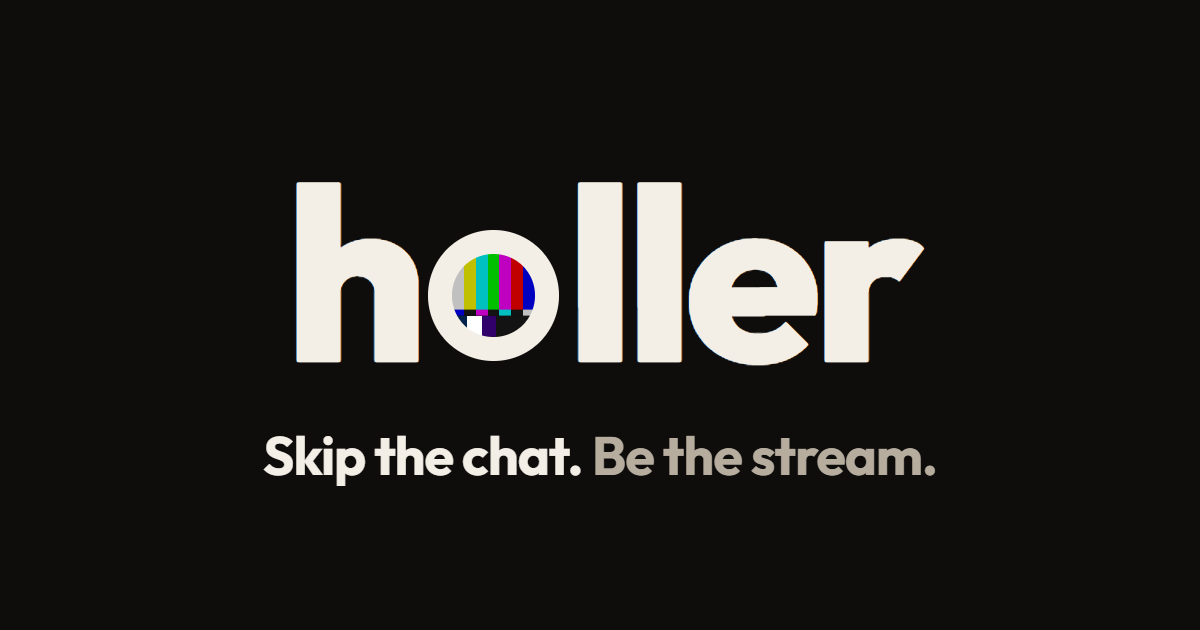
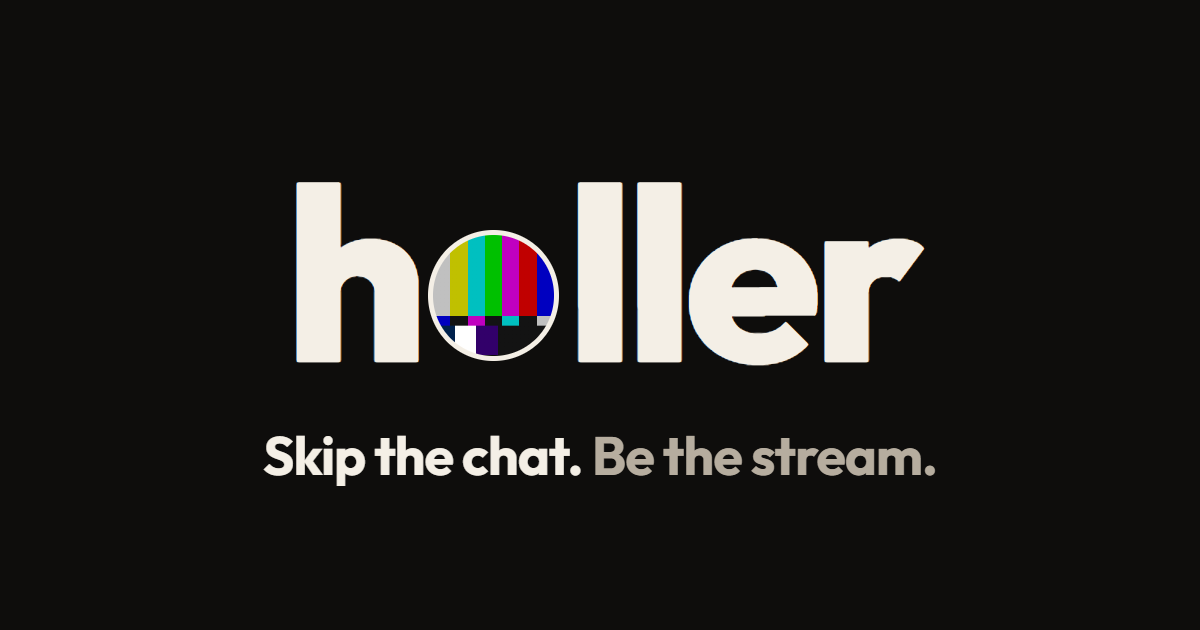
feat(landing): rundown rail, chalk-ledger Pledge picture; V2 o reverted
- Margins: V2 (Retro, default) gets a rundown rail (SEG 01/02/03 with a
  timecode, the live segment marked) and safe-area rules at the 1280 column
  edges; V1 (Classic) gets big tally numerals with the live one lit "On air"
  plus crop marks. 1536px and up. Create strip and footer join the column.
- The Pledge way's picture is a photoreal chalk bounty ledger (upscaled,
  1920 wide); its overlay is a compact card. Real handles flagged for legal
  review before launch (OPEN-ISSUES LG1).
- The V2 o is the full test card again with a hairline edge; the thick ring
  is reverted and the tab icon is its earlier version (icons ?v=6, card ?v=4).

Changed region(s): [[0.3392, 0.3619, 0.4625, 0.573]]

diff --git a/web/components/landing/landing.css b/web/components/landing/landing.css
@@ -1177,3 +1177,100 @@ body:has(.mc-landing) {
   .mcl-half .mcl-idea-row { grid-template-columns: 3px minmax(0, 1fr) auto; }
   .mcl-half .mcl-idea-row > p strong { white-space: normal; }
 }
+
+/* ── Rundown rail + safe area (owner, 2026-11-16) ──────────────────────────
+   The margins get a job, the way a show's running order does. V2 (Retro, the
+   default, "Pick A"): a hairline down the left gutter carrying SEG 01/02/03
+   with a timecode, the live one marked by a red dot, and faint safe-area
+   rules at the 1280 column edges. V1 (Classic, "Pick C"): the same hairline
+   with big outlined tally numerals, the live one lit red "On air", plus crop
+   marks at each section's top corners. Only where the gutter fits it (1536+);
+   the live marker is set by rundown-live.tsx. */
+.mcl-run { position: relative; }
+.mcl-duo, .mcl-half { position: relative; }
+.mcl-seg { display: none; }
+@media (min-width: 901px) {
+  .mcl-create-strip, .mcl-footer { padding-inline: max(64px, calc((100% - 1280px) / 2)); }
+}
+@media (min-width: 1536px) {
+  .mcl-run::before,
+  .mcl-run::after {
+    content: "";
+    position: absolute;
+    z-index: 1;
+    top: 0;
+    bottom: 0;
+    pointer-events: none;
+  }
+  /* the rail */
+  .mcl-run::before { left: calc(50% - 640px - 36px); width: 1px; background: rgba(150, 138, 120, 0.32); }
+  /* the safe area: the column's two edges */
+  .mcl-run::after {
+    left: calc(50% - 640px);
+    width: 1280px;
+    border-inline: 1px solid rgba(150, 138, 120, 0.14);
+  }
+  .mcl-seg {
+    position: absolute;
+    z-index: 2;
+    top: 76px;
+    right: calc(50% + 640px + 52px);
+    display: block;
+    font-family: var(--font-code), ui-monospace, monospace;
+    text-align: right;
+    pointer-events: none;
+  }
+  .mcl-seg::after {
+    content: "";
+    position: absolute;
+    top: 6px;
+    right: -22px;
+    width: 10px;
+    height: 1px;
+    background: rgba(150, 138, 120, 0.5);
+  }
+  .mcl-seg[data-live]::after { background: var(--hl-fg); }
+
+  /* V2 · the rail label */
+  .mcl-seg-rail { display: flex; flex-direction: column; align-items: flex-end; gap: 4px; }
+  .mcl-seg-rail small { display: inline-flex; align-items: center; gap: 6px; color: var(--hl-dim); font-size: 10px; letter-spacing: 0.16em; }
+  .mcl-seg-rail small i { display: none; width: 6px; height: 6px; border-radius: 50%; background: #ff3b30; }
+  .mcl-seg-rail b { color: var(--hl-muted); font-size: 11px; font-weight: 700; letter-spacing: 0.08em; text-transform: uppercase; }
+  .mcl-seg-rail em { color: var(--hl-dim); font-size: 10px; font-style: normal; letter-spacing: 0.06em; }
+  .mcl-seg[data-live] .mcl-seg-rail small { color: var(--hl-fg); }
+  .mcl-seg[data-live] .mcl-seg-rail small i { display: inline-block; }
+  .mcl-seg[data-live] .mcl-seg-rail b { color: var(--hl-fg); }
+
+  /* V1 · the tally */
+  .mcl-seg-tally { display: none; flex-direction: column; align-items: flex-end; gap: 8px; }
+  .mcl-seg-tally b {
+    color: transparent;
+    font-family: var(--font-display), var(--font-ui), sans-serif;
+    font-size: 64px;
+    font-weight: 800;
+    line-height: 0.9;
+    letter-spacing: -0.04em;
+    -webkit-text-stroke: 1px color-mix(in srgb, var(--hl-fg) 30%, transparent);
+  }
+  .mcl-seg-tally small { color: var(--hl-dim); font-size: 10px; font-weight: 700; letter-spacing: 0.14em; text-transform: uppercase; white-space: nowrap; }
+  .mcl-seg-tally small i { display: none; font-style: normal; }
+  .mcl-seg[data-live] .mcl-seg-tally b { color: #ff3b30; -webkit-text-stroke: 0; text-shadow: 0 0 24px rgba(255, 59, 48, 0.45); }
+  .mcl-seg[data-live] .mcl-seg-tally small { color: var(--hl-fg); }
+  .mcl-seg[data-live] .mcl-seg-tally small i { display: inline; }
+
+  /* V1 · crop marks at the column's top corners */
+  .mcl-crop { display: none; }
+  html[data-style='classic'] .mcl-seg-rail { display: none; }
+  html[data-style='classic'] .mcl-seg-tally { display: flex; }
+  html[data-style='classic'] .mcl-crop {
+    position: absolute;
+    top: -52px;
+    display: block;
+    width: 18px;
+    height: 18px;
+    border-top: 1px solid color-mix(in srgb, var(--hl-fg) 45%, transparent);
+  }
+  /* the marker's right edge is 52px left of the column: 40px past it is 12px outside the column's left edge */
+  html[data-style='classic'] .mcl-crop[data-side='l'] { left: calc(100% + 40px); border-left: 1px solid color-mix(in srgb, var(--hl-fg) 45%, transparent); }
+  html[data-style='classic'] .mcl-crop[data-side='r'] { left: calc(100% + 52px + 1280px + 12px - 18px); border-right: 1px solid color-mix(in srgb, var(--hl-fg) 45%, transparent); }
+}

diff --git a/web/components/landing/landing.tsx b/web/components/landing/landing.tsx
@@ -9,6 +9,7 @@ import { docsUrl } from '@/lib/docs-url.mjs'
 import { PoolThumb } from './pool-thumb'
 import { LandingHero } from './landing-hero'
 import { WaysIn } from './ways-in'
+import { RundownLive } from './rundown-live'
 import './landing.css'
 
 // What keeps it fair, one line of checks under the three ways. Each is true of the code
@@ -39,6 +40,18 @@ const CAMPAIGN_IDEAS = [
 ] as const
 
 const PLATFORM_NAME: Record<string, string> = { twitch: 'Twitch', kick: 'Kick', x: 'X', youtube: 'YouTube', pumpfun: 'pump.fun' }
+
+/** One rundown marker: the Retro rail label and the Classic tally, both
+ *  rendered; the look shows one (landing.css). Decoration: hidden from AT. */
+function Seg({ n, name, tc }: { n: string; name: string; tc: string }) {
+  return (
+    <span className="mcl-seg" aria-hidden="true">
+      <span className="mcl-seg-rail"><small><i />SEG {n}</small><b>{name}</b><em>{tc}</em></span>
+      <span className="mcl-seg-tally"><b>{n}</b><small><i>On air · </i>{name}</small></span>
+      <span className="mcl-crop" data-side="l" /><span className="mcl-crop" data-side="r" />
+    </span>
+  )
+}
 
 function poolHref(pool: BountyPool): string {
   return pool.platform && pool.handle
@@ -76,7 +89,14 @@ export function Landing({
         {/* Polish C (owner, 2026-11-16): one 1280 column. The three ways, one
             line of what keeps it fair, then each pitch as its own band: copy
             left, board right, stacked below 1100. */}
+        {/* The margins (owner, 2026-11-16): a TV rundown down the left gutter,
+            safe-area rules at the column edges. V2 (Retro) shows the rail as
+            SEG labels with timecodes; V1 (Classic) as big tally numerals with
+            the live one lit, plus crop marks. Wide screens only (landing.css). */}
+        <div className="mcl-run">
+        <RundownLive />
         <div className="mcl-duo">
+          <Seg n="01" name="The ways" tc="00:00:00:00" />
           <WaysIn />
           <ul className="mcl-trust" aria-label="How Holler keeps it fair">
             {TRUST.map(({ title, rest }) => (
@@ -88,6 +108,7 @@ export function Landing({
         {/* .dark: the boards stay at night in light mode too (Stone) */}
         <section className="mcl-bounty mcl-boards dark">
           <div className="mcl-half" data-k="bounty">
+            <Seg n="02" name="Bounties" tc="00:01:12:08" />
             <div className="mcl-bounty-poster">
               <small className="mcl-band-k">Bounties</small>
               <h2>Your favorite streamer doesn&apos;t even know you.</h2>
@@ -118,6 +139,7 @@ export function Landing({
               There is no public list of campaigns, so the board is starting
               points: each opens the new-campaign form. */}
           <div className="mcl-half" data-k="campaign">
+            <Seg n="03" name="Campaigns" tc="00:02:03:17" />
             <div className="mcl-bounty-poster">
               <small className="mcl-band-k">Campaigns</small>
               <h2>New to streaming? Grow your audience with Holler.</h2>
@@ -136,6 +158,7 @@ export function Landing({
             </div>
           </div>
         </section>
+        </div>
 
         <section className="mcl-create-strip">
           <div><h2>Create a room.</h2><p>Set your rate, connect OBS, and decide how viewers can join.</p></div>

diff --git a/web/components/landing/ways-in.tsx b/web/components/landing/ways-in.tsx
@@ -33,10 +33,10 @@ const WAYS: Record<Way, { verb: string; line: string; readout: string; cta: stri
   bounty: {
     verb: 'Pledge',
     line: 'Back a streamer before they have a room.',
-    readout: '$200 · @latedesk',
+    readout: '$2,500 · @xQc',
     cta: 'Browse bounties',
     href: '/bounty',
-    label: 'A fan on the couch backing the streamer on screen',
+    label: 'A bounty board in chalk, @xQc at number one with $2,500 open',
   },
 }
 const ORDER: Way[] = ['holler', 'callin', 'bounty']
@@ -66,7 +66,7 @@ export function WaysIn() {
           {ORDER.map((w) => <span key={w} className="mcl-ways-shot" data-shot={w} aria-hidden="true" />)}
           <span className="mcl-ways-live" aria-hidden="true">
             <i />
-            {way === 'holler' ? 'LIVE · pixelmaeve' : way === 'callin' ? 'LIVE · nordtalk' : 'WATCHING · latedesk'}
+            {way === 'holler' ? 'LIVE · pixelmaeve' : way === 'callin' ? 'LIVE · nordtalk' : 'BOUNTY BOARD · 6 open'}
           </span>
           <div className="mcl-ways-ov mcl-ways-ov-holler" aria-hidden="true">
             <span className="t">0:07</span>
@@ -78,8 +78,8 @@ export function WaysIn() {
             <span className="meter">00:00:43 · $0.043</span>
           </div>
           <div className="mcl-ways-ov mcl-ways-ov-bounty" aria-hidden="true">
-            <span className="amt">$200</span>
-            <span className="who"><strong>You pledged @latedesk</strong><small>Paid out when they go live and play it</small></span>
+            <span className="amt">$25</span>
+            <span className="who"><strong>You pledged @xQc</strong><small>#1 on the board · paid when they go live</small></span>
           </div>
         </div>
         <div className="mcl-ways-modes" role="group" aria-label="Ways in">

diff --git a/web/app/globals.css b/web/app/globals.css
@@ -940,10 +940,10 @@ html:not([data-style='classic']) .hm .hm-retro {
 html:not([data-style='classic']) .hm.hm--icon .hm-retro {
   font-size: 1.3em;
 }
-/* the o: a ring in the letters' colour with a round SMPTE test card inside
-   (seven bars, the castellation strip, the bottom row), in the letters'
-   x-height. The card is 62% of the o (owner's pick 2026-11-16, "ink ring,
-   bars inside"); the bars are laid out in the padding box (background-origin), inside the ring. */
+/* the o: a round SMPTE test card (seven bars, the castellation strip, the
+   bottom row) in the letters' x-height, edged by a hairline in the letters'
+   colour so it reads as one defined shape, like the tab icon's thin ring
+   (owner, 2026-11-16: the thick "ink ring" o was reverted the same day). */
 /* font-size inherit: page headers set `… span { font-size: 11px }` at (0,1,1)
    inside the lockup, and the o is a span (see the .hm comment above) */
 .hm .hm-tc {
@@ -956,7 +956,7 @@ html:not([data-style='classic']) .hm.hm--icon .hm-retro {
   margin: 0 0.03em 0 0.035em;
   padding: 0;
   box-sizing: border-box;
-  border: 0.1em solid currentColor;
+  border: 0.022em solid currentColor;
   border-radius: 50%;
   font-size: inherit;
   background:

diff --git a/web/components/landing/ways-in.css b/web/components/landing/ways-in.css
@@ -48,7 +48,7 @@
 }
 .mcl-ways-shot[data-shot='holler'] { background-image: url('/landing/ways-holler.webp'); }
 .mcl-ways-shot[data-shot='callin'] { background-image: url('/landing/ways-callin.webp'); }
-.mcl-ways-shot[data-shot='bounty'] { background-image: url('/landing/ways-bounty.webp'); }
+.mcl-ways-shot[data-shot='bounty'] { background-image: url('/landing/ways-bounty.webp?v=2'); }
 .mcl-ways-stage[data-way='holler'] [data-shot='holler'],
 .mcl-ways-stage[data-way='callin'] [data-shot='callin'],
 .mcl-ways-stage[data-way='bounty'] [data-shot='bounty'] { opacity: 1; }
@@ -169,11 +169,12 @@
   font: 700 10px/1 var(--font-code), ui-monospace, monospace;
 }
 
-/* Bounty: a lower third, the fan's pledge on the show he's watching. */
+/* Bounty: a compact card in the lower right, the fan's pledge on the board.
+   Kept off the left half, where the board's names and amounts are. */
 .mcl-ways-ov-bounty {
-  left: 4%;
-  right: 4%;
-  bottom: 7%;
+  right: 3%;
+  bottom: 5%;
+  max-width: 46%;
   display: flex;
   align-items: stretch;
 }

diff --git a/web/components/landing/rundown-live.tsx b/web/components/landing/rundown-live.tsx
@@ -1,0 +1,23 @@
+'use client'
+
+import { useEffect } from 'react'
+
+// The landing's rundown rail (landing.css, "Rundown rail"): marks the segment
+// being read as live. Each .mcl-seg sits in its own section; the section that
+// crosses the middle band of the viewport lights its marker. Nothing renders.
+export function RundownLive() {
+  useEffect(() => {
+    const segs = Array.from(document.querySelectorAll<HTMLElement>('.mcl-seg'))
+    if (!segs.length || typeof IntersectionObserver === 'undefined') return
+    const byParent = new Map(segs.map((s) => [s.parentElement as Element, s]))
+    const io = new IntersectionObserver((entries) => {
+      for (const e of entries) {
+        if (!e.isIntersecting) continue
+        for (const s of segs) s.toggleAttribute('data-live', s === byParent.get(e.target))
+      }
+    }, { rootMargin: '-45% 0px -50% 0px' })
+    byParent.forEach((_, parent) => io.observe(parent))
+    return () => io.disconnect()
+  }, [])
+  return null
+}

diff --git a/web/app/layout.tsx b/web/app/layout.tsx
@@ -62,7 +62,7 @@ export const metadata: Metadata = {
       {
         // Purpose-built 1200x630 card (scripts/generate-og.mjs). Versioned:
         // link previews cache by URL, so bump ?v= whenever og.png changes.
-        url: '/og.png?v=3',
+        url: '/og.png?v=4',
         width: 1200,
         height: 630,
         alt: 'holler, the o a round TV test card, over: Skip the chat. Be the stream.',
@@ -73,13 +73,13 @@ export const metadata: Metadata = {
     card: 'summary_large_image',
     title: SITE_TITLE,
     description: SITE_DESC,
-    images: ['/og.png?v=3'],
+    images: ['/og.png?v=4'],
   },
   // Versioned: browsers cache a tab icon by its URL and ignore no-cache, so a
   // new icon needs a new URL. Bump ?v= whenever icon.svg or apple-icon.png change.
   icons: {
-    icon: '/icon.svg?v=5',
-    apple: '/apple-icon.png?v=5',
+    icon: '/icon.svg?v=6',
+    apple: '/apple-icon.png?v=6',
   },
 }
 

diff --git a/web/app/c/[slug]/page.tsx b/web/app/c/[slug]/page.tsx
@@ -49,8 +49,8 @@ export async function generateMetadata({ params }: { params: Promise<{ slug: str
     title: `${c.title} — Holler`,
     description,
     alternates: { canonical: url },
-    openGraph: { type: 'website', url, siteName: 'Holler', title, description, images: [{ url: '/og.png?v=3', width: 1200, height: 630, alt: 'Holler' }] },
-    twitter: { card: 'summary_large_image', title, description, images: ['/og.png?v=3'] },
+    openGraph: { type: 'website', url, siteName: 'Holler', title, description, images: [{ url: '/og.png?v=4', width: 1200, height: 630, alt: 'Holler' }] },
+    twitter: { card: 'summary_large_image', title, description, images: ['/og.png?v=4'] },
   }
 }
 

diff --git a/DECISIONS.md b/DECISIONS.md
@@ -2743,3 +2743,28 @@ previous commit.
 - **A campaign row is keyed by its feature tab AND the feature named in its
   colour** (owner: the tab alone is not clear enough). Undo: landing.tsx and
   the "Polish C" block at the end of landing.css.
+
+## 2026-11-16 — The margins get a job; the Pledge picture; the V2 o reverted
+
+- **Rundown rail + safe area** (landing canvas, round 4). V2 (Retro, the
+  default, the brand being shown to people) gets the conservative take: a
+  hairline down the left gutter carrying SEG 01/02/03 with a timecode, the
+  segment being read marked by a red dot, and faint rules at the 1280 column
+  edges. V1 (Classic, the loud/experimental look) gets the tally take: big
+  outlined numerals, the live one lit red "On air", plus crop marks at each
+  section's top corners. Only at 1536px and wider (narrower gutters cannot
+  hold it). `rundown-live.tsx` sets the live marker. The create strip and the
+  footer now sit in the same 1280 column. Undo: the "Rundown rail" block in
+  `landing.css`, `<Seg>` and `.mcl-run` in `landing.tsx`.
+- **The Pledge picture is a chalk bounty ledger** (`ways-bounty.webp?v=2`,
+  sources and rejected rolls in `design-assets/pledge-picture/`): six real
+  handles (@xQc, @IShowSpeed, @KaiCenat, @Jynxzi, @AdinRoss, @Ninja) on gold
+  name plates, no faces. Generated from prose only, upscaled, re-encoded at
+  1920 wide. The overlay is now a compact card in the lower right ("$25 · You
+  pledged @xQc · #1 on the board"). **Owner's call, flagged for legal review
+  before launch**: real creators' names on a hero image can read as an
+  endorsement. Undo: `design-assets/pledge-picture/ways-bounty-OLD-couch.webp`.
+- **The V2 o is the full test card again**, now edged by a 0.022em hairline in
+  the letters' colour (the tab icon's thin ring, carried to the wordmark). The
+  thick "ink ring" o (ac7925b) was reverted the same day; the tab icon is its
+  pre-ac7925b version again. Icons `?v=6`, the card `?v=4`.

diff --git a/OPEN-ISSUES.md b/OPEN-ISSUES.md
@@ -5164,3 +5164,11 @@ commit before); `_gate-dashboard-update`, `_gate-rooms-store`,
   prize is decided (exempt them from the budget pass in `archiveAiredClip`).
   **Owner, 2026-11-13: not needed yet.** Bring it back up if prize campaigns
   see real use (busy rooms, many entries), or when he asks for open issues.
+
+- **LG1 — real creators' names on the landing page (2026-11-16).** The Pledge
+  picture shows six real streamers' handles (@xQc, @IShowSpeed, @KaiCenat,
+  @Jynxzi, @AdinRoss, @Ninja) and the board's example bounties name real
+  people too. On a hero image that can read as an endorsement (right of
+  publicity / false endorsement). Owner's call to ship it; get a lawyer's
+  read before the public launch. Swapping the picture back is one file
+  (`design-assets/pledge-picture/ways-bounty-OLD-couch.webp`).
